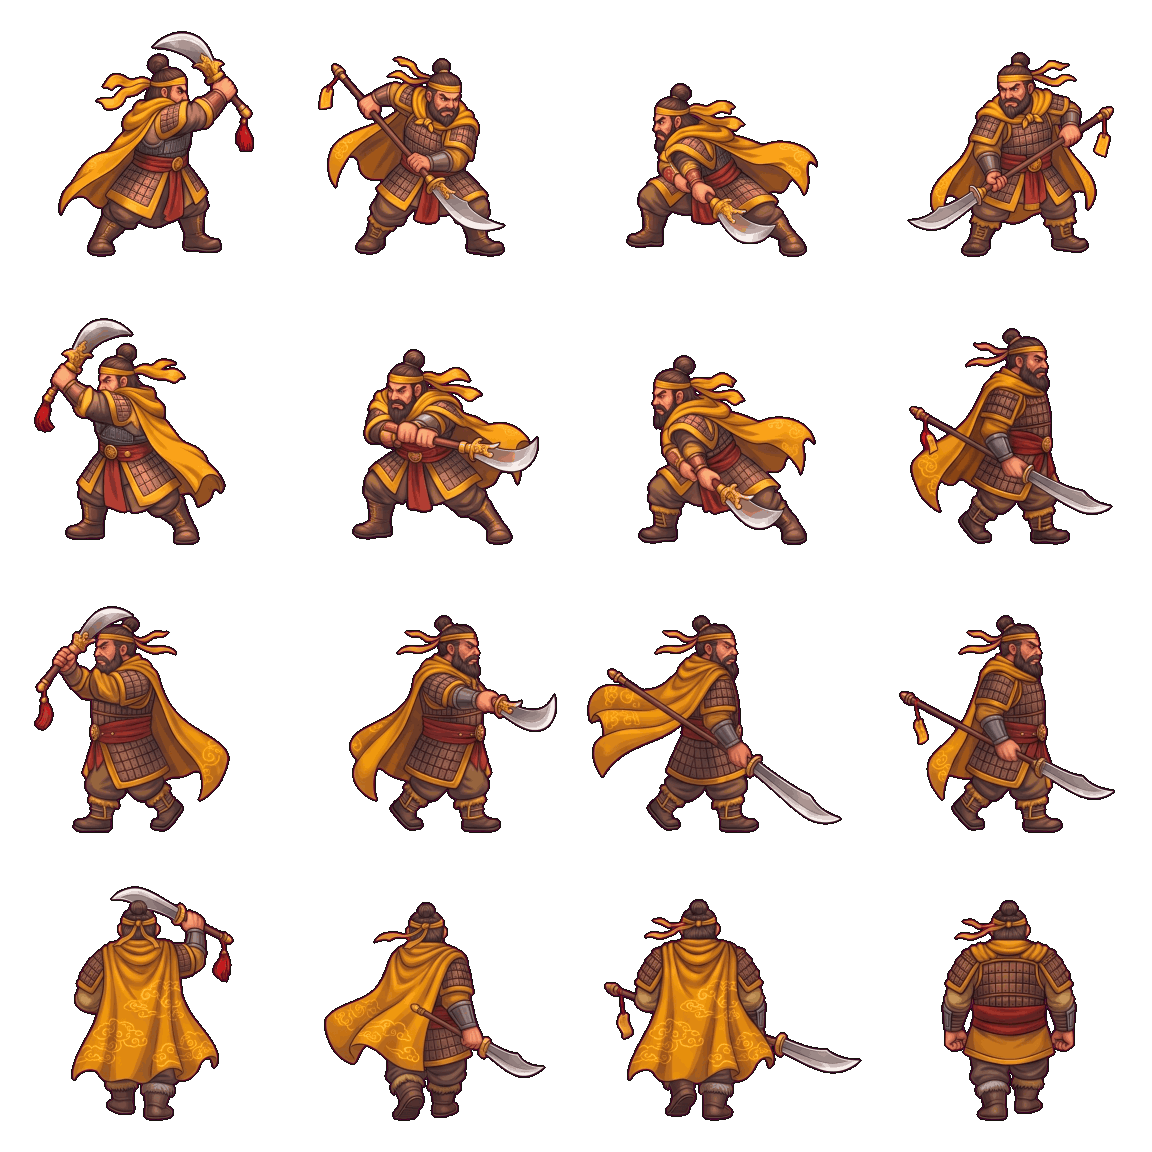
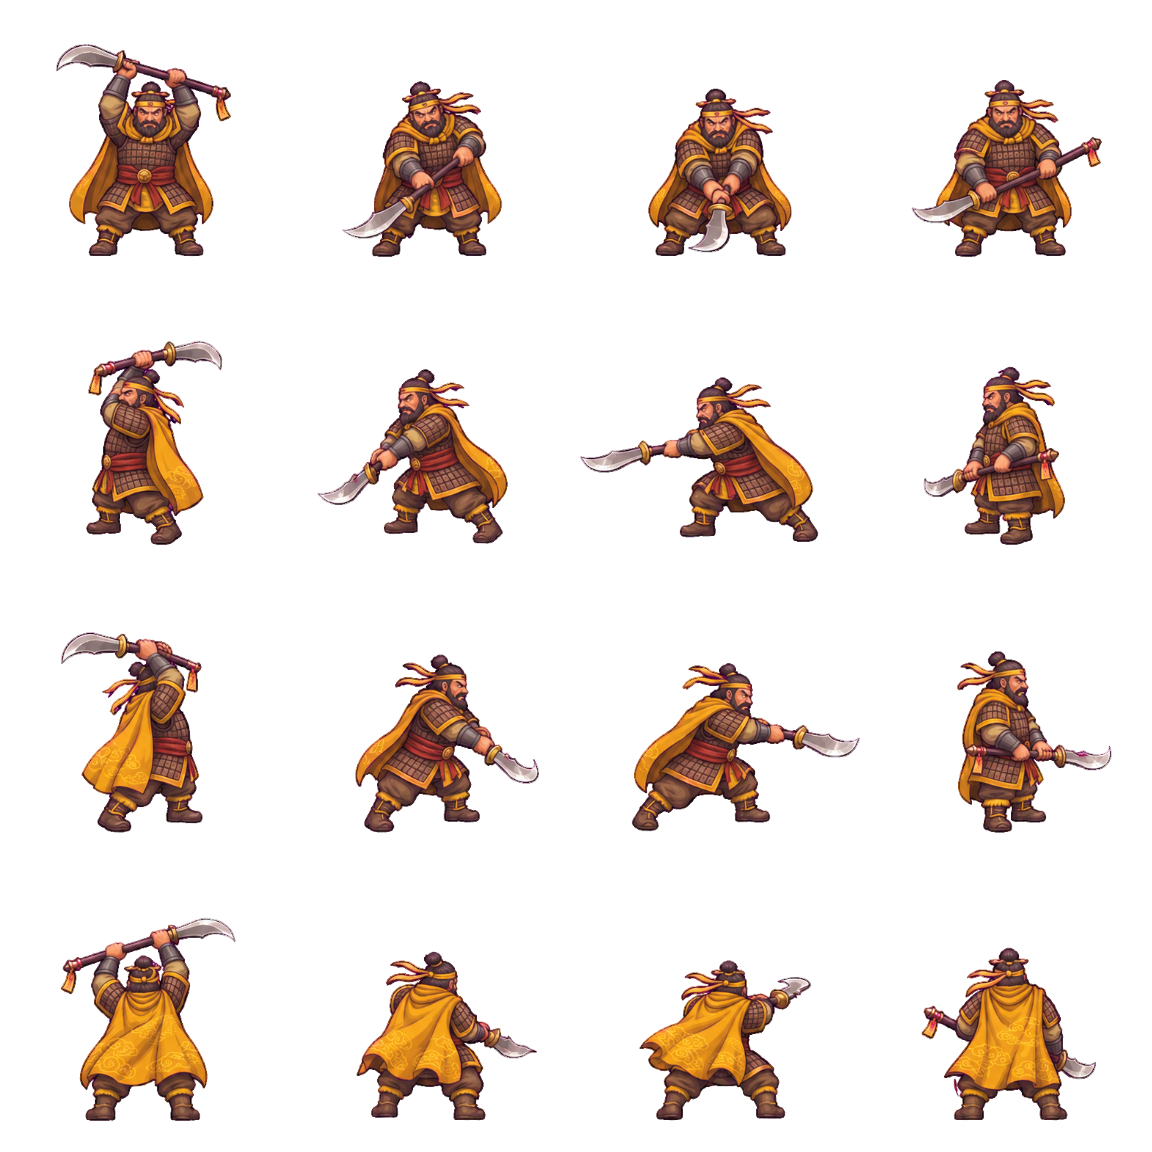
张梁攻击图重画（ChatGPT：正面 / 左 / 右 / 背面各自干净的四向，同行走图设计，旧图入 originals）；祝融夫人飞刀特效：手绘 8 帧旋转火焰飞刀 + 6 帧命中火花（fx_zhurong_knife）+ KnifeFx（飞行 / 扇形 / 命中回调）

diff --git a/src/systems/KnifeFx.ts b/src/systems/KnifeFx.ts
@@ -1,0 +1,85 @@
+import Phaser from 'phaser';
+import { DEPTH } from '../config';
+
+/**
+ * 祝融夫人飞刀特效（2026-11-18，ChatGPT 手绘序列帧，tools/prepare-black-fx.mjs 去黑底）：
+ *  - 飞行：8 帧旋转飞刀 + 红橙羽毛状火焰拖尾（帧 0–7，每帧多转 45°，转一圈无缝循环；图里刀尖朝右 = 飞行方向，整张按飞行方向旋转）；
+ *  - 命中：6 帧火花爆开（帧 8–13：闪光 → 火焰环 → 余烬）。
+ * 图集 fx_zhurong_knife：1024×1024，4×4，每格 256，SKILL_FX 登记、loadSkillFx 预载；缺图时什么都不画、命中回调照样触发（不影响玩法）。
+ * 只管表现：伤害 / 判定由首领招式自己做，在 onHit(x, y) 里接。
+ */
+export const KNIFE_FX = {
+  key: 'fx_zhurong_knife', knifeFrames: 8, hitFrom: 8, hitFrames: 6,
+  /** 飞行速度 px/s；旋转帧率；命中动画时长（ms）；显示边长（世界像素，格子 256，刀约占格宽 43%、火花约 80%）。 */
+  speed: 360, spinFps: 18, hitMs: 420, knifeSize: 86, hitSize: 130, cap: 48,
+} as const;
+
+interface Knife { img: Phaser.GameObjects.Image; active: boolean; phase: 'fly' | 'hit'; t: number; x0: number; y0: number; x1: number; y1: number; dur: number; onHit?: (x: number, y: number) => void; size: number }
+
+export interface KnifeOpts {
+  /** 飞行速度 px/s（默认 KNIFE_FX.speed）。 */ speed?: number;
+  /** 刀显示边长倍率（默认 1）。 */ scale?: number;
+  /** 到达目标时回调（只调一次）：伤害判定放这里。 */ onHit?: (x: number, y: number) => void;
+  /** 到了目标不播命中火花（例如穿过去的飞刀）。 */ noImpact?: boolean;
+}
+
+export class KnifeFx {
+  private readonly pool: Knife[] = [];
+  private readonly bound: (t: number, dt: number) => void;
+  readonly stats = { fired: 0, hits: 0 };
+
+  constructor(private readonly scene: Phaser.Scene) {
+    this.bound = (_t, dt) => this.update(dt * (((this.scene as unknown as { devTimeScale?: number }).devTimeScale) ?? 1));
+    scene.events.on(Phaser.Scenes.Events.UPDATE, this.bound);
+    scene.events.once(Phaser.Scenes.Events.SHUTDOWN, () => this.destroy());
+  }
+
+  get ready(): boolean { return this.scene.textures.exists(KNIFE_FX.key); }
+  get activeCount(): number { let n = 0; for (const k of this.pool) if (k.active) n++; return n; }
+  /** 场上还在飞 / 还在爆的刀（测试用）。 */
+  get live(): readonly Knife[] { return this.pool.filter(k => k.active); }
+
+  /** 从 (x0,y0) 朝 (x1,y1) 扔一把飞刀；飞到后在目标点爆开火花。 */
+  fire(x0: number, y0: number, x1: number, y1: number, o: KnifeOpts = {}): void {
+    this.stats.fired++;
+    const dist = Math.hypot(x1 - x0, y1 - y0), speed = o.speed ?? KNIFE_FX.speed, size = KNIFE_FX.knifeSize * (o.scale ?? 1);
+    let k = this.pool.find(p => !p.active);
+    if (!k) {
+      if (this.pool.length >= KNIFE_FX.cap) { o.onHit?.(x1, y1); this.stats.hits++; return; }   // 池满：不画，判定照给
+      k = { img: this.scene.add.image(0, 0, KNIFE_FX.key, 0).setVisible(false).setName('zhurong-knife'), active: false, phase: 'fly', t: 0, x0, y0, x1, y1, dur: 1, size };
+      this.pool.push(k);
+    }
+    k.active = true; k.phase = 'fly'; k.t = 0; k.x0 = x0; k.y0 = y0; k.x1 = x1; k.y1 = y1; k.dur = Math.max(1, dist / speed * 1000); k.size = size; k.onHit = o.onHit;
+    (k as Knife & { noImpact?: boolean }).noImpact = !!o.noImpact;
+    if (this.ready) k.img.setFrame(0).setDisplaySize(size, size).setPosition(x0, y0).setRotation(Math.atan2(y1 - y0, x1 - x0)).setAlpha(1).setDepth(DEPTH.projectile + 1).setVisible(true);
+  }
+
+  /** 扇形扔 n 把（中心线朝 (tx,ty)，相邻夹角 spreadDeg，射程 range）。 */
+  fan(x0: number, y0: number, tx: number, ty: number, n: number, spreadDeg: number, range: number, o: KnifeOpts = {}): void {
+    const base = Math.atan2(ty - y0, tx - x0);
+    for (let i = 0; i < n; i++) { const a = base + (i - (n - 1) / 2) * spreadDeg * Math.PI / 180; this.fire(x0, y0, x0 + Math.cos(a) * range, y0 + Math.sin(a) * range, o); }
+  }
+
+  private update(dtMs: number): void {
+    const D = KNIFE_FX;
+    for (const k of this.pool) {
+      if (!k.active) continue;
+      k.t += dtMs;
+      if (k.phase === 'fly') {
+        const u = Math.min(1, k.t / k.dur);
+        if (this.ready) { const f = Math.floor(k.t / 1000 * D.spinFps) % D.knifeFrames; k.img.setFrame(f).setPosition(k.x0 + (k.x1 - k.x0) * u, k.y0 + (k.y1 - k.y0) * u); }
+        if (u >= 1) {
+          this.stats.hits++; k.onHit?.(k.x1, k.y1);
+          if ((k as Knife & { noImpact?: boolean }).noImpact || !this.ready) { k.active = false; k.img.setVisible(false); continue; }
+          k.phase = 'hit'; k.t = 0; k.img.setFrame(D.hitFrom).setRotation(0).setDisplaySize(D.hitSize * k.size / D.knifeSize, D.hitSize * k.size / D.knifeSize).setPosition(k.x1, k.y1);
+        }
+      } else {
+        const u = k.t / D.hitMs;
+        if (u >= 1) { k.active = false; k.img.setVisible(false); continue; }
+        k.img.setFrame(D.hitFrom + Math.min(D.hitFrames - 1, Math.floor(u * D.hitFrames)));
+      }
+    }
+  }
+
+  destroy(): void { this.scene.events.off(Phaser.Scenes.Events.UPDATE, this.bound); for (const k of this.pool) k.img.destroy(); this.pool.length = 0; }
+}

diff --git a/src/systems/SkillFxSheets.ts b/src/systems/SkillFxSheets.ts
@@ -20,6 +20,8 @@ export const SKILL_FX: Readonly<Record<string, { file: string; cell: number; fra
   fx_death_dust: { file: 'assets/fx/death_dust.png', cell: 256, frames: 6 },
   // 敌军死亡特效的兵器 / 头巾小图（即梦 Seedream 5.5，tools/prepare-death-props.mjs 处理；3 列 × 2 行，帧 0–5：刀 枪 弓 / 藤牌 重盾 头巾）。手机不用；缺图时兵器 / 头巾自动不显示
   fx_death_props: { file: 'assets/fx/death_props.png', cell: 256, frames: 6 },
+  // 祝融夫人飞刀（ChatGPT 手绘序列帧，tools/prepare-black-fx.mjs 去黑底）：4×4，帧 0–7 旋转飞刀 + 火焰拖尾、帧 8–13 命中火花；KnifeFx 按帧号直接取，frames 只对 playSheet 有意义（这里不用）
+  fx_zhurong_knife: { file: 'assets/zhurong-fx/knife_fx.png', cell: 256, frames: 8 },
 };
 
 export function loadSkillFx(load: Phaser.Loader.LoaderPlugin): void {
